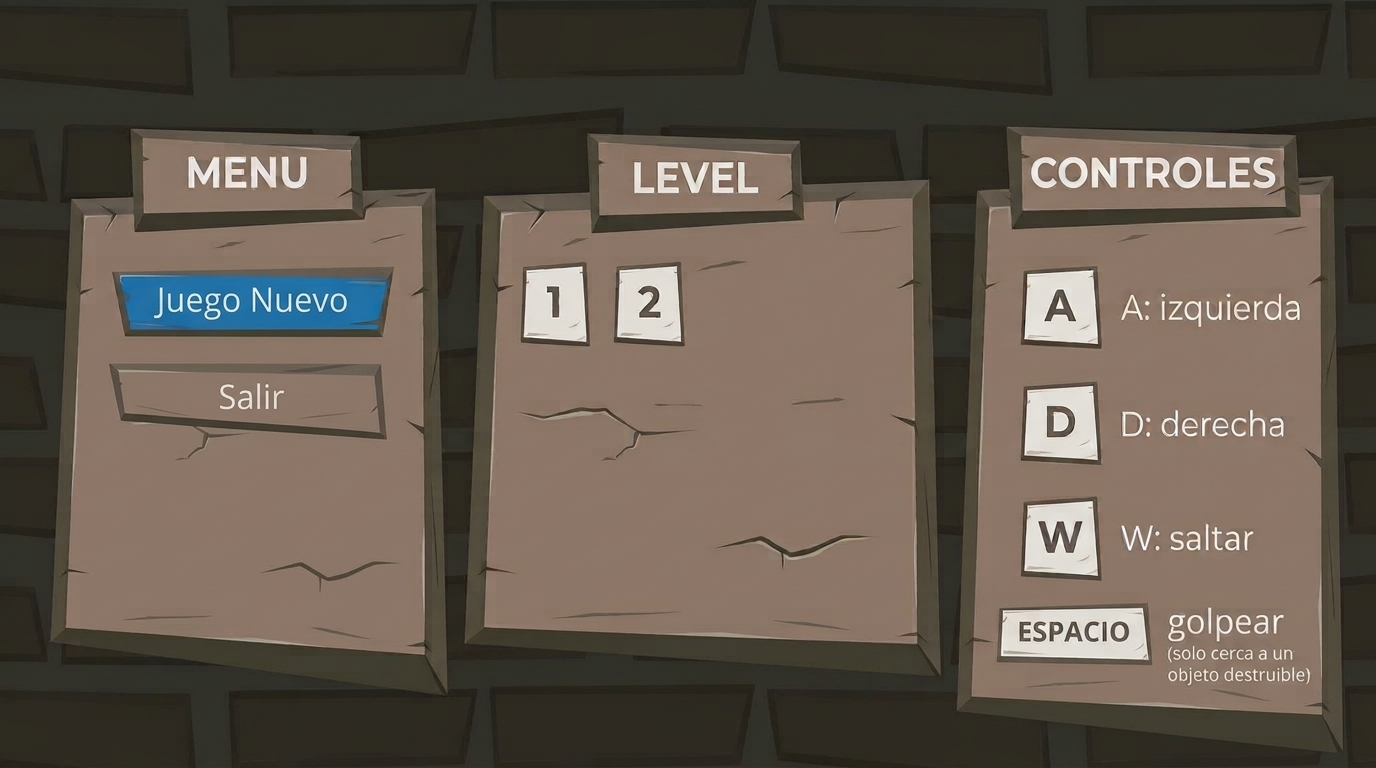
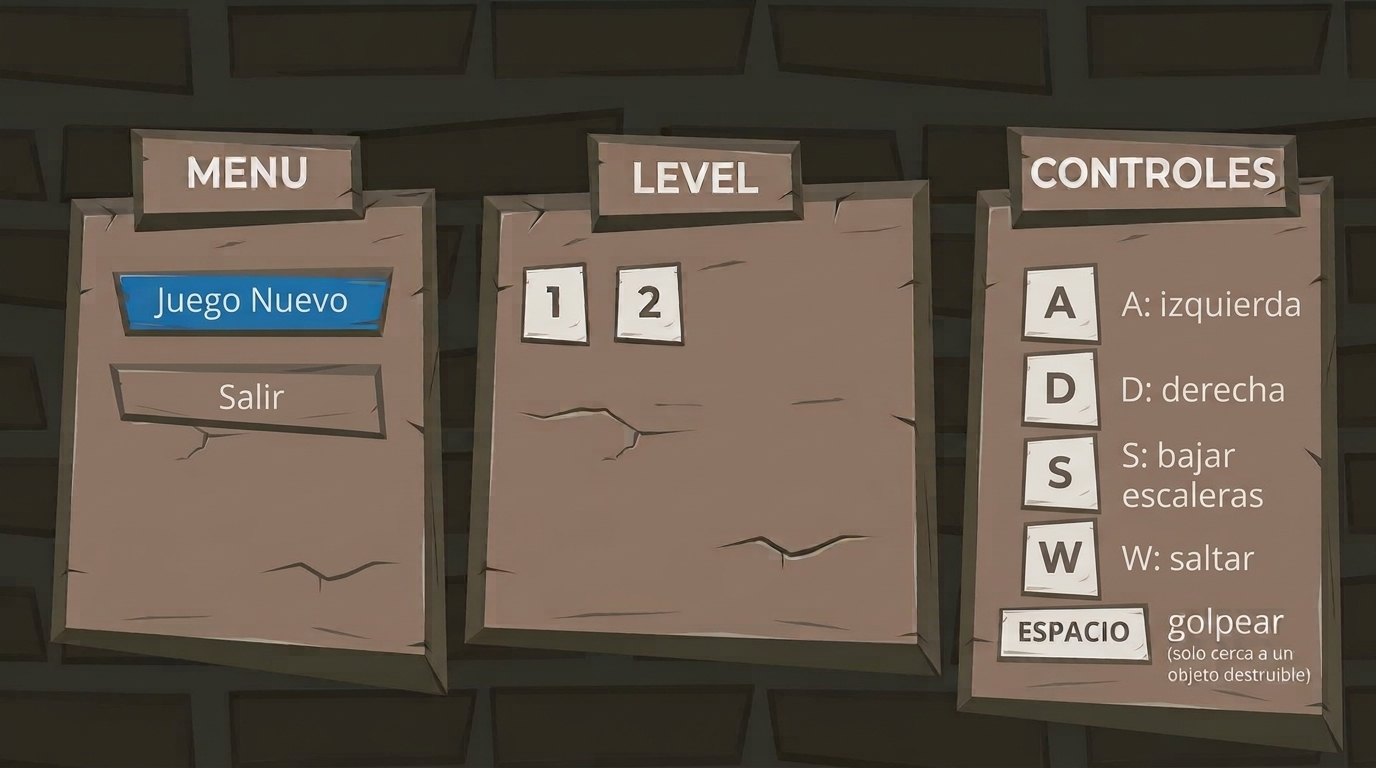
reaccion de sprite y tamaño

Changed region(s): [[0.7188, 0.3438, 0.9375, 0.7812], [0.8125, 0.375, 0.9375, 0.4375]]

diff --git a/src/logica/Nivel1Banco.cpp b/src/logica/Nivel1Banco.cpp
@@ -44,6 +44,7 @@ void Nivel1Banco::iniciar() {
     ruidoGolpes = 0;
     tiempoDesdeGolpe = 0.0;
     tiempoBloqueoLaser = 0.0;
+    tiempoElectrocutado = 0.0;
     muertePorLaser = false;
     lasersSuelo.clear();
     contactoLaserSuelo = false;
@@ -76,6 +77,7 @@ void Nivel1Banco::actualizar(double deltaTiempo) {
 
     minion.actualizar(deltaTiempo);
     tiempoBloqueoLaser = std::max(0.0, tiempoBloqueoLaser - deltaTiempo);
+    tiempoElectrocutado = std::max(0.0, tiempoElectrocutado - deltaTiempo);
     if (ruidoGolpes > 0) {
         tiempoDesdeGolpe += deltaTiempo;
         if (tiempoDesdeGolpe >= 1.5) {
@@ -248,6 +250,7 @@ void Nivel1Banco::activarAlarmaBoveda() {
 
 bool Nivel1Banco::soporteDestruido() const { return resistenciaSoporte <= 0.0; }
 bool Nivel1Banco::murioPorLaser() const { return muertePorLaser; }
+bool Nivel1Banco::estaElectrocutado() const { return tiempoElectrocutado > 0.0; }
 int Nivel1Banco::obtenerRuidoGolpes() const { return ruidoGolpes; }
 int Nivel1Banco::obtenerRisasEmitidas() const { return risasEmitidas; }
 double Nivel1Banco::obtenerResistenciaSoporte() const { return resistenciaSoporte; }
@@ -295,6 +298,7 @@ void Nivel1Banco::verificarLaser() {
             }
         }
         if (tocaSuelo && !contactoLaserSuelo) {
+            tiempoElectrocutado = 0.4;
             const int vidasAntes = minion.obtenerVidas();
             minion.recibirDanio(40);
             if (minion.obtenerVidas() <= 0
@@ -324,6 +328,7 @@ void Nivel1Banco::verificarLaser() {
     }
 
     if (!laserActivado) {
+        tiempoElectrocutado = 0.4;
         laserActivado = true;
         const double lado = posicion.x() < laserX ? -1.0 : 1.0;
         minion.recibirDanio(40);

diff --git a/src/gui/VentanaJuego.cpp b/src/gui/VentanaJuego.cpp
@@ -511,7 +511,7 @@ void VentanaJuego::actualizarNivel1(double dt) {
     const bool fuerte = minion.tieneBananaActiva();
     usarAnimacion(soporteItem, boveda.estaAbierta() ? Anim::SOPORTE_DESTRUIDO_ROJO
                       : (n->soporteDestruido() ? Anim::SOPORTE_DESTRUIDO : Anim::SOPORTE));
-    soporteItem->fijarTamano(n->soporteDestruido() ? QSizeF(280, 280) : QSizeF(220, 220));
+    soporteItem->fijarTamano(n->soporteDestruido() ? QSizeF(240, 240) : QSizeF(220, 220));
     soporteItem->setPos(aEscena(n->obtenerPosicionSoporte()
                                  + QPointF(0.0, n->soporteDestruido() ? 9.0 : 5.0)));
     if (laserItems.size() == 3) {
@@ -523,7 +523,9 @@ void VentanaJuego::actualizarNivel1(double dt) {
     // --- Kevin: la animación depende de lo que está haciendo ---
     minionItem->fijarTamano(fuerte ? TAM_MINION_FUERTE : TAM_MINION);
 
-    if (gestor->faseCaptura() == 1) {
+    if (n->estaElectrocutado()) {
+        usarAnimacion(minionItem, Anim::MINION_ELECTROCUTADO);
+    } else if (gestor->faseCaptura() == 1) {
         usarAnimacion(minionItem, Anim::MINION_CAPTURADO);
 
     } else if (gestor->faseCaptura() == 2) {

diff --git a/src/gui/ConfigGrafica.h b/src/gui/ConfigGrafica.h
@@ -51,6 +51,7 @@ inline constexpr Animacion FONDO_NIVEL2 {"Sprits d3/escenarios/Escenario_N2", 1,
 
 // ---------------- Kevin ----------------
 inline constexpr Animacion MINION_IDLE      {"Sprits d3/minions/minion_estatico", 1, 0.0, 64, 64};
+inline constexpr Animacion MINION_ELECTROCUTADO {"Sprits d3/minions/minion_electrocutado", 1, 0.0, 64, 64};
 inline constexpr Animacion MINION_CAMINAR   {"Sprits d3/minions/minions_caminando", 4, 8.0, 64, 64};
 inline constexpr Animacion MINION_SALTAR    {"Sprits d3/minions/minions_saltando", 3, 0.0, 64, 64};
 inline constexpr Animacion MINION_GOLPEAR   {"Sprits d3/minions/minions_martillo", 4, 8.0, 64, 64, true};

diff --git a/src/logica/Nivel1Banco.h b/src/logica/Nivel1Banco.h
@@ -28,6 +28,7 @@ public:
     bool cercaDeObjetivo() const;
     bool soporteDestruido() const;
     bool murioPorLaser() const;
+    bool estaElectrocutado() const;
     int obtenerRuidoGolpes() const;
     int obtenerRisasEmitidas() const;
     double obtenerResistenciaSoporte() const;
@@ -70,6 +71,7 @@ private:
     int ruidoGolpes = 0;
     double tiempoDesdeGolpe = 0.0;
     double tiempoBloqueoLaser = 0.0;
+    double tiempoElectrocutado = 0.0;
     bool muertePorLaser = false;
     QVector<QPointF> lasersSuelo;
     bool contactoLaserSuelo = false;
